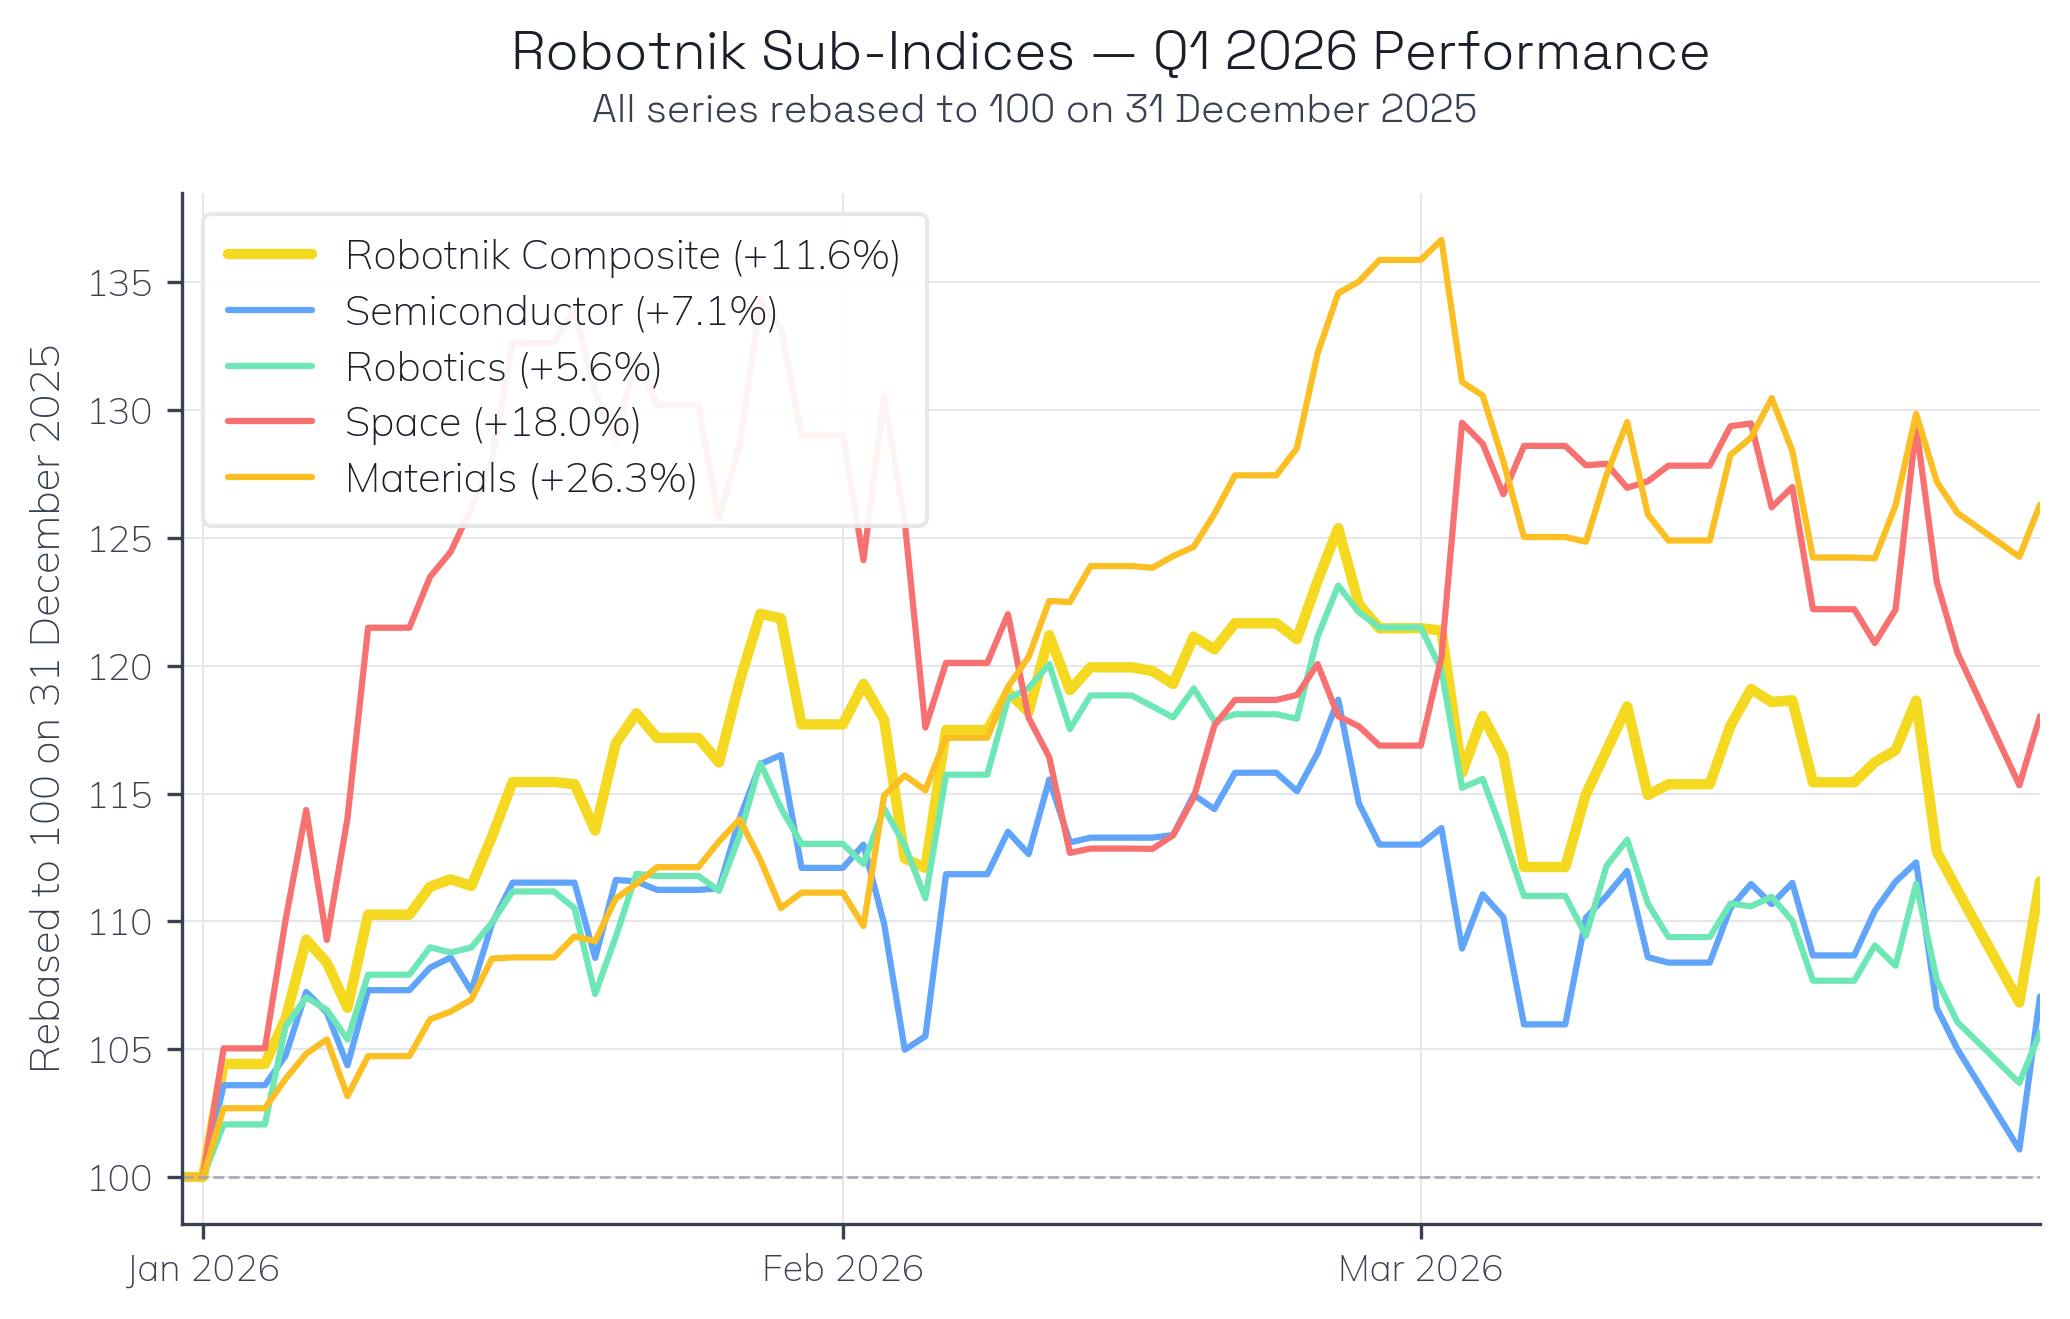
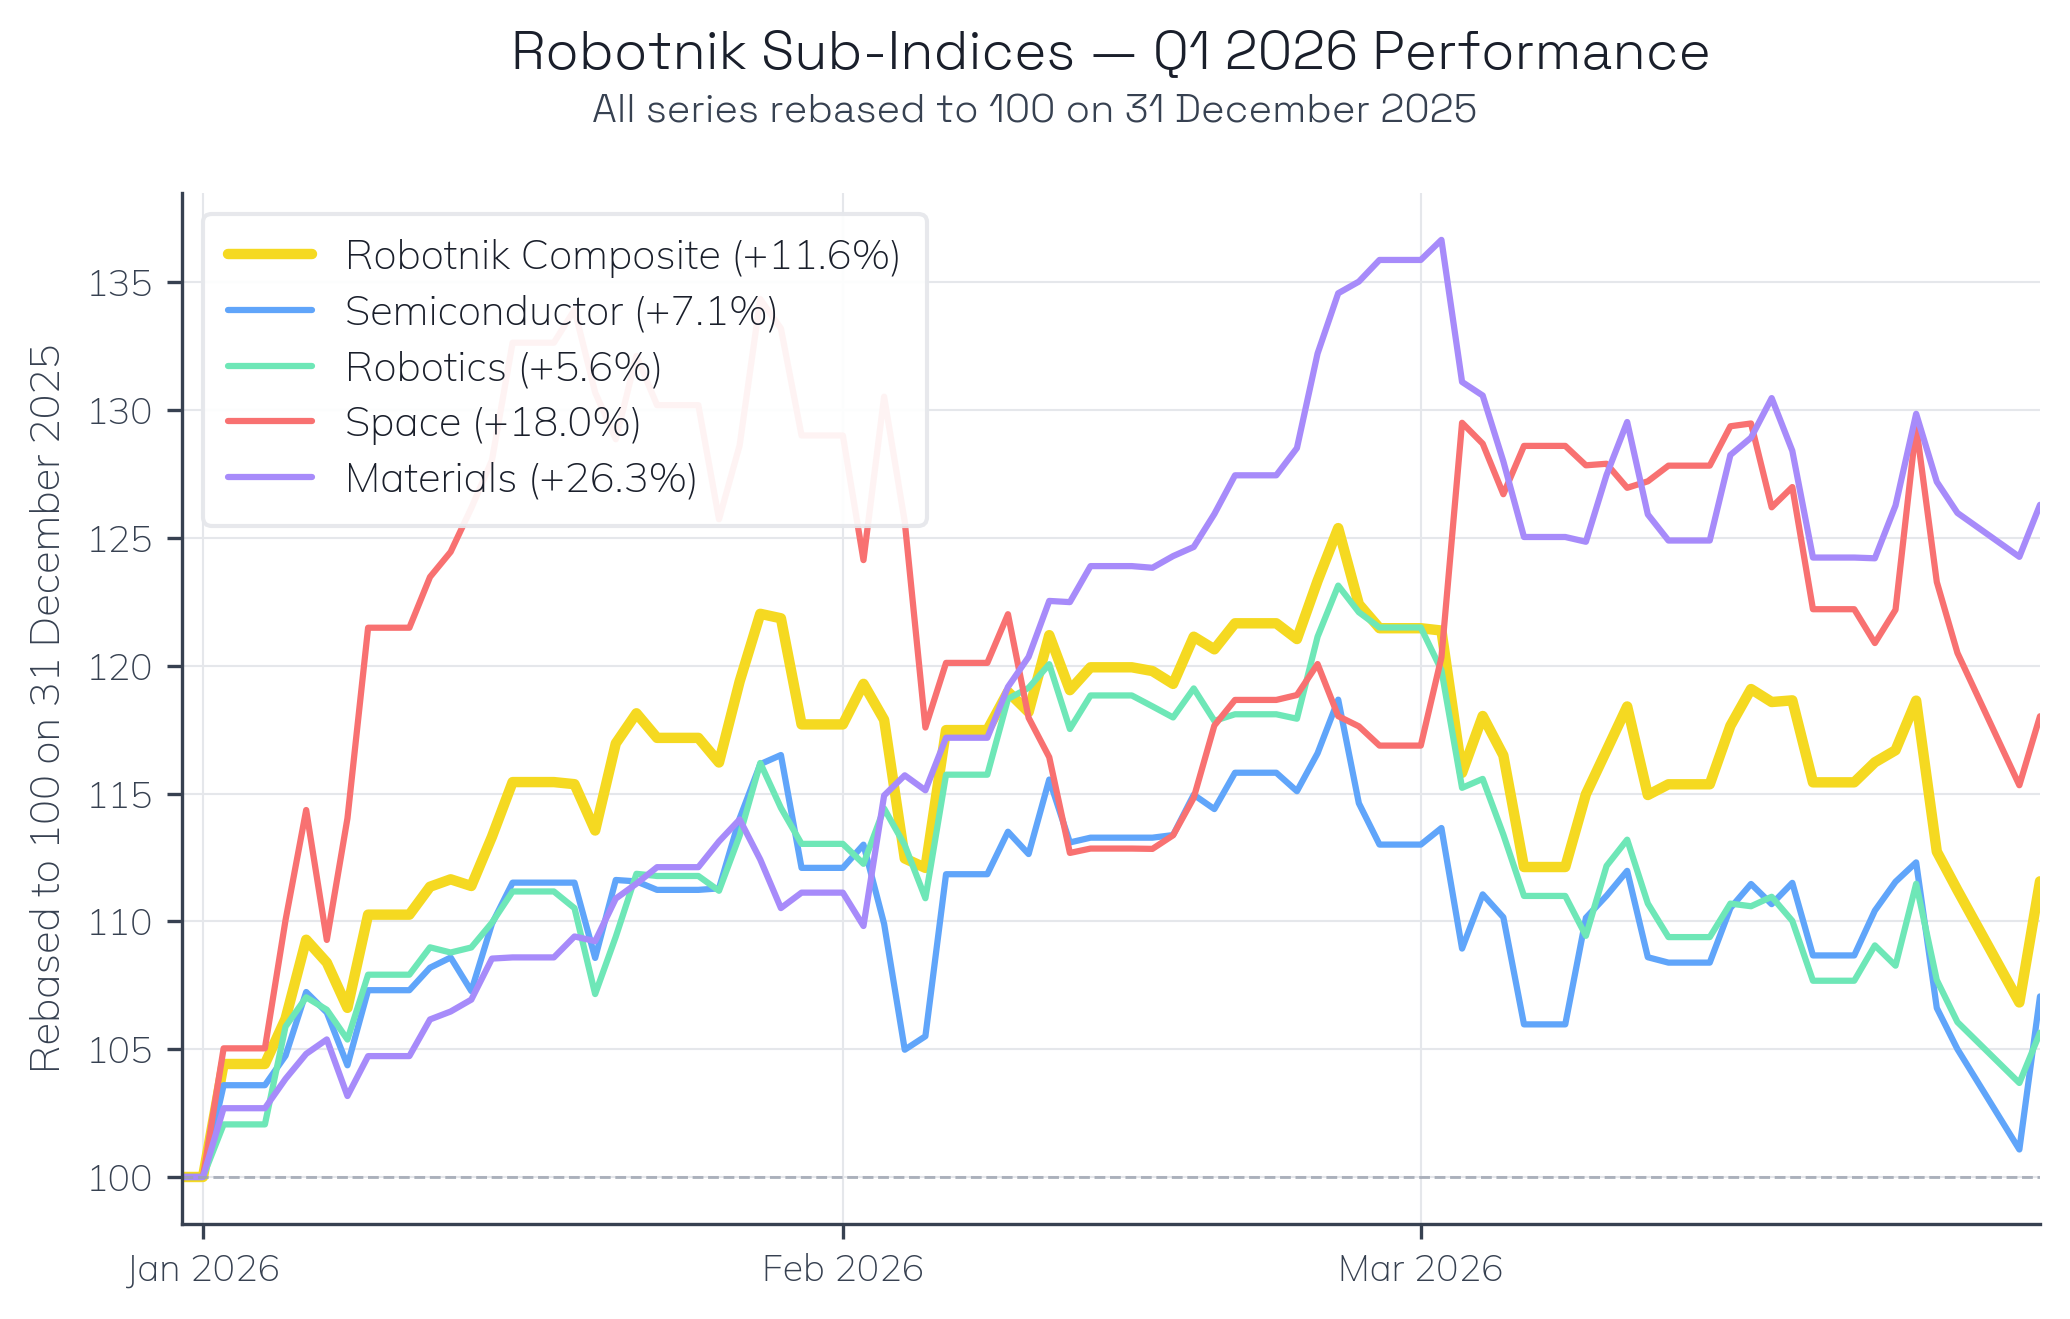
chore(report): swap Materials colour to muted violet
Materials was amber (#FBBF24) which read too close to the Robotnik
hero yellow (#F5D921) at chart scale — visually the two lines merged
at the top of Figure 3.

Swapped to muted violet (#A78BFA). Now the five series occupy well-
separated regions of the colour wheel:
  Composite      yellow   #F5D921 (hero)
  Semiconductor  blue     #60A5FA
  Robotics       green    #6EE7B7
  Space          salmon   #F87171
  Materials      violet   #A78BFA  ← was amber

Grayscale-safe: all five luminances now distinct.

diff --git a/scripts/report_chart_style.py b/scripts/report_chart_style.py
@@ -93,12 +93,16 @@ PALETTE = SimpleNamespace(
         "ROBO": "#6EE7B7",   # ROBO ETF — muted green
     },
 
-    # Sub-indices (Figure 3 reference treatment)
+    # Sub-indices (Figure 3 reference treatment).
+    # Materials was amber (#FBBF24) but read too close to the hero Robotnik
+    # yellow at chart scale. Swapped to muted violet so the four sub-index
+    # colours all sit well away from yellow on the colour wheel, and away
+    # from each other in luminance + hue — readable in grayscale too.
     subindices={
         "semiconductor": "#60A5FA",   # muted blue
         "robotics":      "#6EE7B7",   # muted green
         "space":         "#F87171",   # salmon
-        "materials":     "#FBBF24",   # muted amber — note: NOT the Robotnik hero yellow
+        "materials":     "#A78BFA",   # muted violet
     },
 
     # Annotation fill + border
